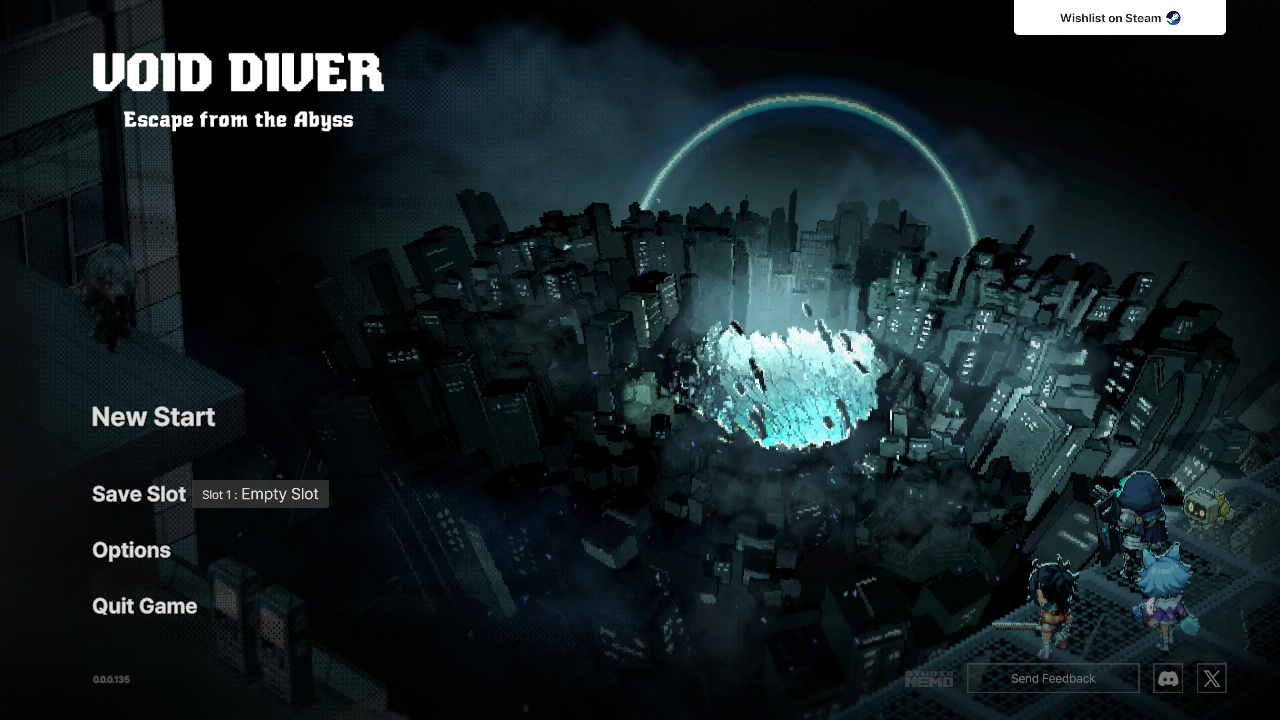
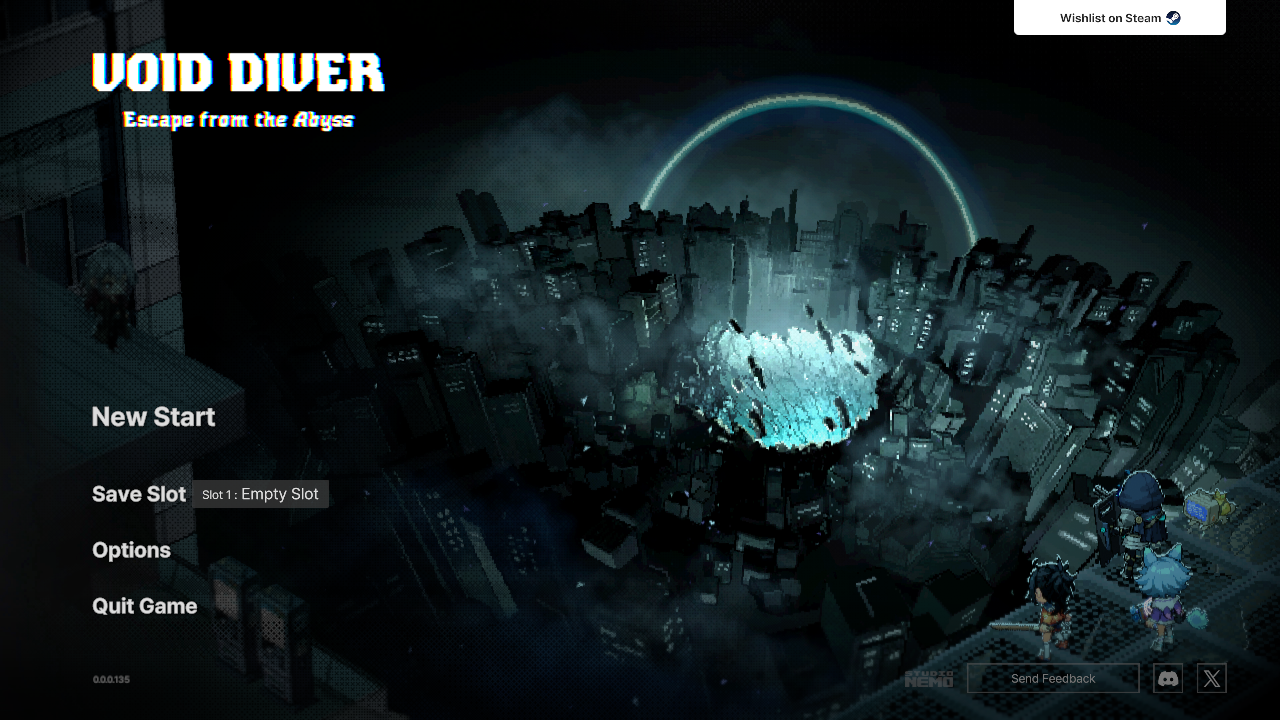
test(a1): the cyan pit's lift is Anim_LoungeBG's light flicker; shoot the title off the spike
Anim_LoungeBG (20 s loop, its own clock) flickers Point Light_7/_8 inside the pit (10-18 / 2-20), and the
smoke is random particles. A1b_PitProbe holds A1's camera pose, seeds the particles and sweeps the loop
(PitOverTime, pit-run10): pit luma 106.5-126.7 against the clip's title frames 102-125 (01.jpg 111.4,
02.jpg 107.9). Run 59's 136 was shot at 2.06 s, on the spike, with unseeded smoke. ProbePit freezes one
phase and switches features, lights and renderers off: the pit is the LoungeBG mesh (shader_DE_BG_Base) lit
by those lights; GL 126.6 vs Vulkan 123.5 (pit-run8/9), so not a D3D convention, and the material, texture,
lights and volume profiles match the decode-kit export.

A1 now skips camera-pose matches whose light phase falls in 1.5-4 s and logs lights= with the shot. Run 60:
lights 1.14 s, pit x1.09 / x1.13 (no flag); ring x0.82 is inside its own 37.8-49.1 range over the loop.
verdicts-final: pit ok (state), 11 ok, 1 version, 0 web-bug. DECODING trap 35.

diff --git a/docs/review/a1/compare/index.html b/docs/review/a1/compare/index.html
@@ -1,1 +1,1 @@
-<meta charset="utf-8"><style>body{font:13px sans-serif;background:#111;color:#ddd}img{max-width:960px}td{vertical-align:top;padding:4px}</style><table><tr><td>title-menu</td><td>pair</td><td>pit:sáng+màu×1.22</td><td><a href="title-menu.png"><img src="title-menu.png" loading="lazy"></a></td></tr><tr><td>title-options</td><td>pair</td><td></td><td><a href="title-options.png"><img src="title-options.png" loading="lazy"></a></td></tr></table>
+<meta charset="utf-8"><style>body{font:13px sans-serif;background:#111;color:#ddd}img{max-width:960px}td{vertical-align:top;padding:4px}</style><table><tr><td>title-menu</td><td>pair</td><td>ring:sáng×0.82</td><td><a href="title-menu.png"><img src="title-menu.png" loading="lazy"></a></td></tr><tr><td>title-options</td><td>pair</td><td></td><td><a href="title-options.png"><img src="title-options.png" loading="lazy"></a></td></tr></table>

diff --git a/Assets/_VD/Tests/A1b_PitProbe.cs b/Assets/_VD/Tests/A1b_PitProbe.cs
@@ -1,0 +1,266 @@
+using System.Collections;
+using System.Collections.Generic;
+using System.IO;
+using System.Linq;
+using System.Text;
+using NUnit.Framework;
+using UnityEngine;
+using UnityEngine.Rendering;
+using UnityEngine.Rendering.Universal;
+using UnityEngine.SceneManagement;
+using UnityEngine.TestTools;
+
+namespace VD.PlayTests
+{
+    // A1b: which renderer lifts the title's cyan pit. Boots like A1, freezes the title at A1's pose (the clip's),
+    // lists every renderer whose screen bounds reach the pit region with its material values, then measures the pit's
+    // luma with post-processing off, with each renderer feature off, with each shader group off and with each renderer
+    // off. Lines: VD_PIT.
+    public class A1b_PitProbe
+    {
+        // docs/review/regions.json "pit", image coordinates (y down).
+        static readonly Rect Pit = Rect.MinMaxRect(0.52f, 0.42f, 0.68f, 0.62f);
+
+        static void Log(string s) => Debug.LogWarning("VD_PIT " + s);
+
+        static string Path(Transform t) => t.parent == null ? t.name : Path(t.parent) + "/" + t.name;
+
+        // Reference regions (docs/review/regions.json title-menu), to tell a pit-only change from a frame-wide one.
+        static readonly Rect Ring = Rect.MinMaxRect(0.45f, 0.1f, 0.78f, 0.3f);
+        static readonly Rect City = Rect.MinMaxRect(0.3f, 0.3f, 0.5f, 0.6f);
+
+        static float baseMean;
+
+        // Mean and 75th percentile of Rec.601 luma over a region, as parity.py measures it.
+        static (float mean, float p75) Measure(Texture2D tex, Color32[] px, Rect r)
+        {
+            int x0 = Mathf.RoundToInt(r.xMin * tex.width), x1 = Mathf.RoundToInt(r.xMax * tex.width);
+            int y0 = Mathf.RoundToInt((1 - r.yMax) * tex.height), y1 = Mathf.RoundToInt((1 - r.yMin) * tex.height);
+            var l = new List<float>();
+            for (int y = y0; y < y1; y++)
+                for (int x = x0; x < x1; x++)
+                {
+                    var c = px[y * tex.width + x];
+                    l.Add(0.299f * c.r + 0.587f * c.g + 0.114f * c.b);
+                }
+            l.Sort();
+            return (l.Average(), l[(int)(l.Count * 0.75f)]);
+        }
+
+        static IEnumerator Shot(string label)
+        {
+            var key = "pit-" + label;
+            yield return Review.Shot(key);
+            var tex = new Texture2D(2, 2);
+            tex.LoadImage(File.ReadAllBytes(Path_(key)));
+            var px = tex.GetPixels32();
+            var (mean, p75) = Measure(tex, px, Pit);
+            var ring = Measure(tex, px, Ring);
+            var city = Measure(tex, px, City);
+            Object.Destroy(tex);
+            if (label == "base") baseMean = mean;
+            Log($"luma {label} mean={mean:F1} p75={p75:F0} delta={mean - baseMean:F1} ring={ring.mean:F1} city={city.mean:F1}");
+        }
+
+        static string Path_(string key) => System.IO.Path.Combine("captures", "review", key + ".png");
+
+        // Screen rect (viewport, y down) of a renderer's bounds as the main camera sees them.
+        static Rect ScreenRect(Camera cam, Bounds b)
+        {
+            float xmin = 1e9f, ymin = 1e9f, xmax = -1e9f, ymax = -1e9f;
+            for (int i = 0; i < 8; i++)
+            {
+                var p = b.center + Vector3.Scale(b.extents, new Vector3((i & 1) == 0 ? -1 : 1, (i & 2) == 0 ? -1 : 1, (i & 4) == 0 ? -1 : 1));
+                var v = cam.WorldToViewportPoint(p);
+                if (v.z <= 0) continue;
+                xmin = Mathf.Min(xmin, v.x); xmax = Mathf.Max(xmax, v.x);
+                ymin = Mathf.Min(ymin, 1 - v.y); ymax = Mathf.Max(ymax, 1 - v.y);
+            }
+            return xmin > xmax ? Rect.zero : Rect.MinMaxRect(xmin, ymin, xmax, ymax);
+        }
+
+        static float Overlap(Rect a, Rect b)
+        {
+            float w = Mathf.Min(a.xMax, b.xMax) - Mathf.Max(a.xMin, b.xMin), h = Mathf.Min(a.yMax, b.yMax) - Mathf.Max(a.yMin, b.yMin);
+            return w > 0 && h > 0 ? w * h / (b.width * b.height) : 0;
+        }
+
+        static string Props(Material m, Renderer r)
+        {
+            var block = new MaterialPropertyBlock();
+            r.GetPropertyBlock(block);
+            var sb = new StringBuilder();
+            var s = m.shader;
+            for (int i = 0; i < s.GetPropertyCount(); i++)
+            {
+                var n = s.GetPropertyName(i);
+                switch (s.GetPropertyType(i))
+                {
+                    case ShaderPropertyType.Color:
+                        sb.Append($" {n}={m.GetColor(n)}{(block.HasColor(n) ? "/blk" + block.GetColor(n) : "")}"); break;
+                    case ShaderPropertyType.Vector:
+                        sb.Append($" {n}={m.GetVector(n)}{(block.HasVector(n) ? "/blk" + block.GetVector(n) : "")}"); break;
+                    case ShaderPropertyType.Float:
+                    case ShaderPropertyType.Range:
+                        sb.Append($" {n}={m.GetFloat(n):G4}{(block.HasFloat(n) ? "/blk" + block.GetFloat(n) : "")}"); break;
+                    case ShaderPropertyType.Texture:
+                        var t = m.GetTexture(n);
+                        sb.Append($" {n}={(t ? t.name : "-")}"); break;
+                }
+            }
+            return sb.ToString();
+        }
+
+        static string Particles(Renderer r)
+        {
+            if (!r.TryGetComponent<ParticleSystem>(out var ps)) return "";
+            var main = ps.main;
+            var em = ps.emission;
+            var col = ps.colorOverLifetime;
+            return $" ps(count={ps.particleCount} max={main.maxParticles} startColor={main.startColor.mode}:{main.startColor.color}/{main.startColor.colorMin}/{main.startColor.colorMax} " +
+                $"rate={em.rateOverTime.constant:G4} col={col.enabled} simSpeed={main.simulationSpeed} unscaled={main.useUnscaledTime} playing={ps.isPlaying} " +
+                $"mode={((ParticleSystemRenderer)r).renderMode} mesh={(((ParticleSystemRenderer)r).mesh ? ((ParticleSystemRenderer)r).mesh.name : "-")})";
+        }
+
+        static UnityEngine.Playables.PlayableDirector director;
+        static Animator bgAnim;
+
+        // Boot like A1, wait for the menu, then hold A1's camera pose (the clip's), Anim_LoungeBG at lightPhase (0..1 of
+        // its 20 s loop) and seeded particles, so every shot after this sees the same frame on any run and API.
+        static IEnumerator FreezeAtA1Pose(float lightPhase)
+        {
+            SceneManager.LoadScene(0);
+            // A1 takes the clip's pose at the title timeline's time 12 s after boot (it sways every 39.15 s), but the
+            // title is still fading in then; freezing there froze the fade and every shot came out black (pit-run1/2).
+            // So note that phase, wait for the menu and the fade, then for the same phase one sway later.
+            yield return new WaitForSecondsRealtime(12f);
+            director = Object.FindObjectsByType<UnityEngine.Playables.PlayableDirector>(FindObjectsSortMode.None)
+                .FirstOrDefault(d => d.playableAsset != null && d.playableAsset.name == "TL_Title_01");
+            Assert.IsNotNull(director, "TL_Title_01 director not found at 12 s");
+            double phase = director.time;
+            MonoBehaviour title = null;
+            yield return Flow.WaitUntil(() => (title = Flow.Find("StartSceneView")) != null
+                && (Flow.Get(title, "Buttons") as GameObject)?.activeInHierarchy == true
+                && Flow.Ready(Flow.Button(title, "Play_Button")), 120f, "title menu");
+            yield return new WaitForSecondsRealtime(3f);
+            const double sway = 39.15;
+            for (float waited = 0; waited < 45f; waited += Time.unscaledDeltaTime)
+            {
+                if (director.time - phase > 5 && System.Math.Abs(director.time - phase - sway * System.Math.Round((director.time - phase) / sway)) < 0.05) break;
+                yield return null;
+            }
+            Log($"pose director={director.time:F2} phase={phase:F2} cam={(Camera.main ? Camera.main.transform.position : Vector3.zero):F2}");
+            // Freeze that pose without Time.timeScale = 0: pause the title timeline, the animators (the fade is over by now; Anim_LoungeBG moves and dims
+            // the point lights on a 20 s loop) and the particle systems so each shot
+            // below sees the same frame.
+            director.Pause();
+            foreach (var an in Object.FindObjectsByType<Animator>(FindObjectsSortMode.None)) an.speed = 0;
+            // Same light phase in every run: Anim_LoungeBG at lightPhase of its 20 s loop.
+            bgAnim = Object.FindObjectsByType<Animator>(FindObjectsSortMode.None).FirstOrDefault(a => a.name == "LoungeBG");
+            if (bgAnim)
+            {
+                bgAnim.Play(bgAnim.GetCurrentAnimatorStateInfo(0).shortNameHash, 0, lightPhase);
+                bgAnim.Update(0);
+            }
+            foreach (var l in Object.FindObjectsByType<Light>(FindObjectsSortMode.None).Where(l => l.type == LightType.Point).OrderBy(l => l.name))
+                Log($"frozen light {l.name} int={l.intensity:F2} col={l.color} pos={l.transform.position:F2}");
+            // Particles are random per run: replay every root system from a fixed seed for 8 s, then hold it, so two
+            // runs (GL and Vulkan) draw the same smoke.
+            foreach (var ps in Object.FindObjectsByType<ParticleSystem>(FindObjectsSortMode.None).Where(p => p.transform.parent == null || p.transform.parent.GetComponentInParent<ParticleSystem>() == null))
+            {
+                ps.Stop(true, ParticleSystemStopBehavior.StopEmittingAndClear);
+                foreach (var c in ps.GetComponentsInChildren<ParticleSystem>(true)) { c.useAutoRandomSeed = false; c.randomSeed = 12345; }
+                ps.Simulate(8f, true, true, false);
+                ps.Pause(true);
+            }
+            yield return null;
+        }
+
+        [UnityTest, Timeout(1800000)]
+        public IEnumerator ProbePit()
+        {
+            LogAssert.ignoreFailingMessages = true;
+            yield return FreezeAtA1Pose(0.1f);
+            yield return null;
+            var cam = Camera.main;
+            Assert.IsNotNull(cam, "main camera not found on the title");
+            yield return Shot("base");
+            Log($"frozen cam={cam.transform.position:F2}");
+
+            var data = cam.GetUniversalAdditionalCameraData();
+            data.renderPostProcessing = false;
+            yield return Shot("nopost");
+            data.renderPostProcessing = true;
+
+            var features = (typeof(ScriptableRenderer).GetProperty("rendererFeatures", System.Reflection.BindingFlags.Instance | System.Reflection.BindingFlags.NonPublic | System.Reflection.BindingFlags.Public)
+                ?.GetValue(data.scriptableRenderer) as List<ScriptableRendererFeature>) ?? new List<ScriptableRendererFeature>();
+            foreach (var f in features.Where(f => f != null && f.isActive).ToList())
+            {
+                f.SetActive(false);
+                yield return Shot("feat-" + f.name.Replace(' ', '_'));
+                f.SetActive(true);
+            }
+
+            foreach (var l in Object.FindObjectsByType<Light>(FindObjectsSortMode.None).Where(l => l.isActiveAndEnabled).ToList())
+            {
+                Log($"light {Path(l.transform)} {l.type} col={l.color} int={l.intensity:F3} range={l.range:F2} pos={l.transform.position:F2} mode={l.lightmapBakeType} render={l.renderMode} layers={l.cullingMask}");
+                l.enabled = false;
+                yield return Shot("light-" + l.name.Replace(' ', '_'));
+                l.enabled = true;
+            }
+            yield return Shot("base2");
+
+            var pit = Object.FindObjectsByType<Renderer>(FindObjectsSortMode.None)
+                .Where(r => r.enabled && r.gameObject.activeInHierarchy && r.gameObject.layer != LayerMask.NameToLayer("UI") && (cam.cullingMask & (1 << r.gameObject.layer)) != 0)
+                .Select(r => (r, rect: ScreenRect(cam, r.bounds)))
+                .Where(x => Overlap(x.rect, Pit) > 0)
+                .OrderByDescending(x => Overlap(x.rect, Pit)).ToList();
+            foreach (var (r, rect) in pit)
+            {
+                Log($"rend {Path(r.transform)} {r.GetType().Name} vis={r.isVisible} layer={LayerMask.LayerToName(r.gameObject.layer)} sort={r.sortingLayerName}/{r.sortingOrder} " +
+                    $"cover={Overlap(rect, Pit):F2} screen={rect}{Particles(r)}");
+                foreach (var m in r.sharedMaterials.Where(m => m))
+                    Log($"  mat {m.name} shader={m.shader.name} q={m.renderQueue} kw=[{string.Join(",", m.shaderKeywords)}]{Props(m, r)}");
+            }
+
+            foreach (var g in pit.GroupBy(x => x.r.sharedMaterial ? x.r.sharedMaterial.shader.name : "null").ToList())
+            {
+                foreach (var x in g) x.r.enabled = false;
+                yield return Shot("shader-" + g.Key.Replace('/', '_').Replace(' ', '_') + "-" + g.Count());
+                foreach (var x in g) x.r.enabled = true;
+            }
+            int i = 0;
+            foreach (var (r, _) in pit.Take(80))
+            {
+                r.enabled = false;
+                yield return Shot($"r{i:D2}");
+                Log($"r{i:D2} = {Path(r.transform)}");
+                r.enabled = true;
+                i++;
+            }
+            Assert.Pass($"{pit.Count} renderers reach the pit");
+        }
+
+        // The pit's luma over Anim_LoungeBG's whole 20 s loop at A1's pose: the loop flickers the point lights in the pit
+        // (Light_8 2..20, Light_7 10..18), so one shot at an arbitrary phase says little about a lift. 40 phases, 0.5 s apart.
+        [UnityTest, Timeout(1800000)]
+        public IEnumerator PitOverTime()
+        {
+            LogAssert.ignoreFailingMessages = true;
+            yield return FreezeAtA1Pose(0f);
+            Assert.IsNotNull(bgAnim, "LoungeBG animator not found");
+            var lights = Object.FindObjectsByType<Light>(FindObjectsSortMode.None).Where(l => l.type == LightType.Point).OrderBy(l => l.name).ToList();
+            var hash = bgAnim.GetCurrentAnimatorStateInfo(0).shortNameHash;
+            yield return Shot("warmup");  // the first shot after the freeze misses the held particles (pit-run4 base vs base2)
+            for (int i = 0; i < 40; i++)
+            {
+                bgAnim.Play(hash, 0, i / 40f);
+                bgAnim.Update(0);
+                yield return null;
+                var li = string.Join(" ", lights.Select(l => $"{l.name.Replace("Point Light_", "L")}={l.intensity:F1}"));
+                yield return Shot($"t{i:D2}");
+                Log($"t{i:D2} bg={i * 0.5f:F1}s {li}");
+            }
+        }
+    }
+}

diff --git a/Assets/_VD/Tests/A1_TitleFlow.cs b/Assets/_VD/Tests/A1_TitleFlow.cs
@@ -135,7 +135,7 @@ namespace VD.PlayTests
             catch (System.InvalidOperationException) { }  // no log scope open yet
         }
 
-        [UnityTest]
+        [UnityTest, Timeout(900000)]  // the title shot may wait up to 200 s for a pose outside the light spike
         public IEnumerator BootToTitle()
         {
             LogAssert.ignoreFailingMessages = true;
@@ -157,12 +157,20 @@ namespace VD.PlayTests
             // 12 s shot's pose; take the title shot at that phase so the pair compares the same camera.
             const double sway = 39.15;
             var title = TitleDirector();
-            for (float waited = 0; title && phase >= 0 && waited < 45f; waited += Time.unscaledDeltaTime)
+            // Anim_LoungeBG (20 s loop, its own clock) flickers the point lights in the pit: Light_7 and Light_8 peak at
+            // 18 and 17 around 2-3.5 s, which lifts the pit by up to 15% over the rest of the loop (A1b_PitProbe.PitOverTime,
+            // pit-run10). Each sway lands the loop 0.85 s earlier, so skip pose matches that fall in that spike; the light
+            // phase is logged with the shot.
+            Animator bg = null;
+            foreach (var a in Object.FindObjectsByType<Animator>(FindObjectsSortMode.None)) if (a.name == "LoungeBG") bg = a;
+            float BgTime() => bg ? bg.GetCurrentAnimatorStateInfo(0).normalizedTime % 1f * 20f : -1f;
+            for (float waited = 0; title && phase >= 0 && waited < 200f; waited += Time.unscaledDeltaTime)
             {
-                if (System.Math.Abs(title.time - phase - sway * System.Math.Round((title.time - phase) / sway)) < 0.05) break;
+                var bgT = BgTime();
+                if (System.Math.Abs(title.time - phase - sway * System.Math.Round((title.time - phase) / sway)) < 0.05 && !(bgT >= 1.5f && bgT <= 4f)) break;
                 yield return null;
             }
-            Debug.LogWarning($"VD_A1 title-menu director={(title ? title.time.ToString("F2") : "-")} phase={phase:F2}");
+            Debug.LogWarning($"VD_A1 title-menu director={(title ? title.time.ToString("F2") : "-")} phase={phase:F2} lights={BgTime():F2}s");
             yield return Review.Shot("title-menu");
 
             // title-options: press Options the way a player does. StartScene subscribes to the button's onClick

diff --git a/docs/DECODING.md b/docs/DECODING.md
@@ -208,3 +208,11 @@ Phép kiểm sau mỗi lần build:
     `WavePhase.WaveSpawnDatas = new List`, `MonsterSpawnComponent.UseMonsterSpawnTable = true`) bị mất. Thiếu -1 thì rương
     tạo lần đầu có `SlotCount` 0, `Math.Max(0, 1)` = 1: panel ghi "Search Results 3/1" (A5 lần 4). Bộ lọc tạm của một
     công cụ kiểm phải hết hạn cùng việc nó che; chạy lại công cụ sau khi bỏ bộ lọc.
+35. **Một ảnh so với clip không đo được độ sáng của cảnh có animation ánh sáng.** Hố xanh ở title "sáng x1.22" so với clip
+    (A1 lần 59) mà không có lỗi render: `Anim_LoungeBG` (vòng 20 s, đồng hồ riêng, không theo timeline 39.15 s của camera)
+    nháy Point Light_7/_8 nằm trong hố (cường độ 10-18 / 2-20), và khói là particle ngẫu nhiên. Giữ đúng pose của A1, gieo
+    seed cho particle rồi quét cả vòng (`A1b_PitProbe.PitOverTime`, pit-run10): hố 106,5-126,7, clip 102-125; ảnh lần 59
+    rơi đúng đỉnh nháy (2,06 s). Cùng khung đóng băng, GL 126,6 và Vulkan 123,5 (pit-run8/9), nên cũng không phải quy ước
+    D3D. Trước khi sửa shader vì một vùng lệch sáng: tìm mọi curve `m_Intensity`/`m_Color` của đèn và particle trong vùng,
+    quét pha của chúng ở pose cố định, rồi so khoảng với các khung clip; ảnh review chụp ở pha đã biết (A1 bỏ qua đỉnh
+    1,5-4 s và ghi `lights=` cạnh ảnh).
